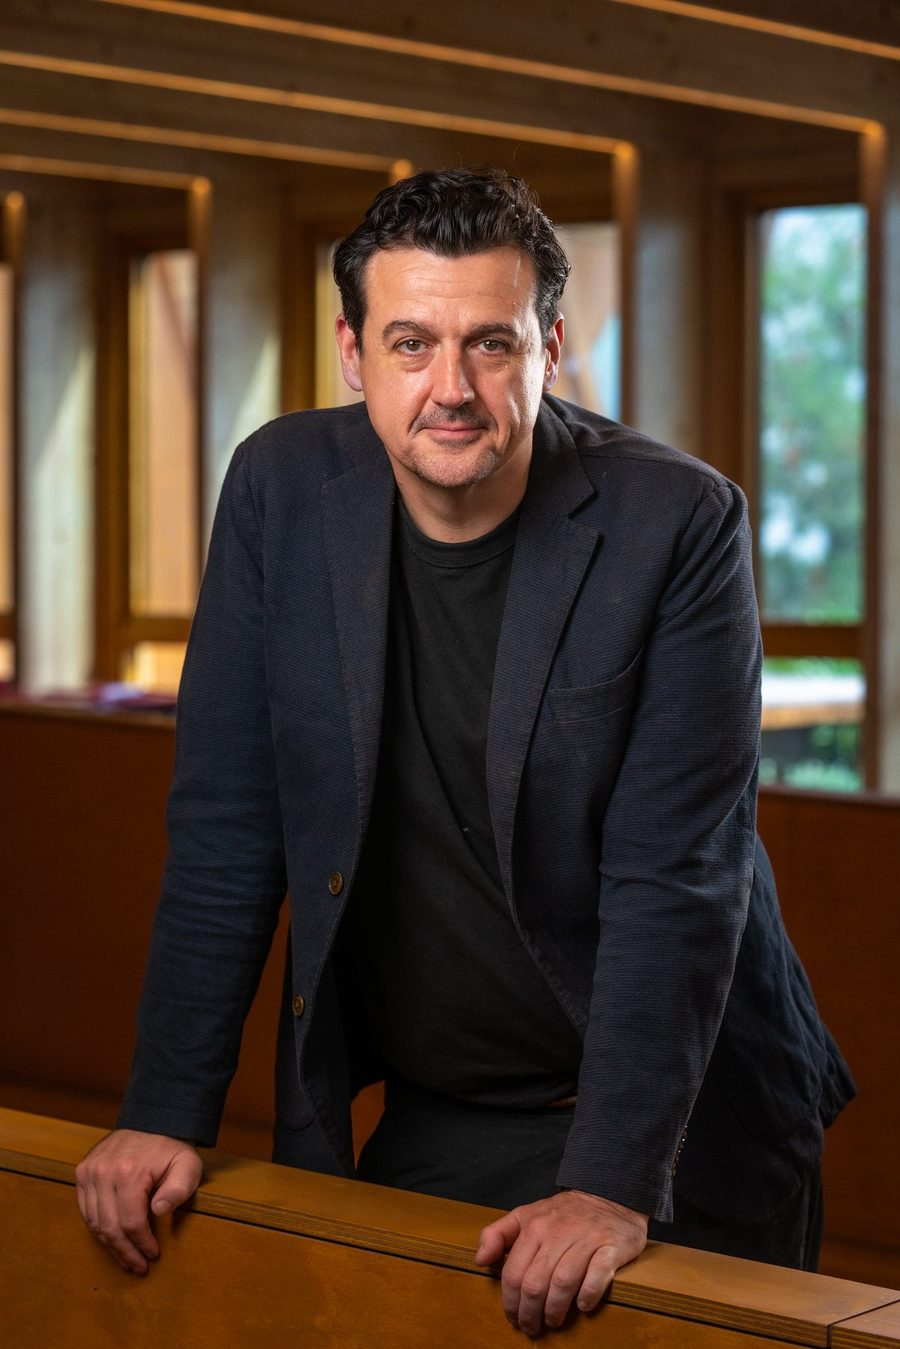
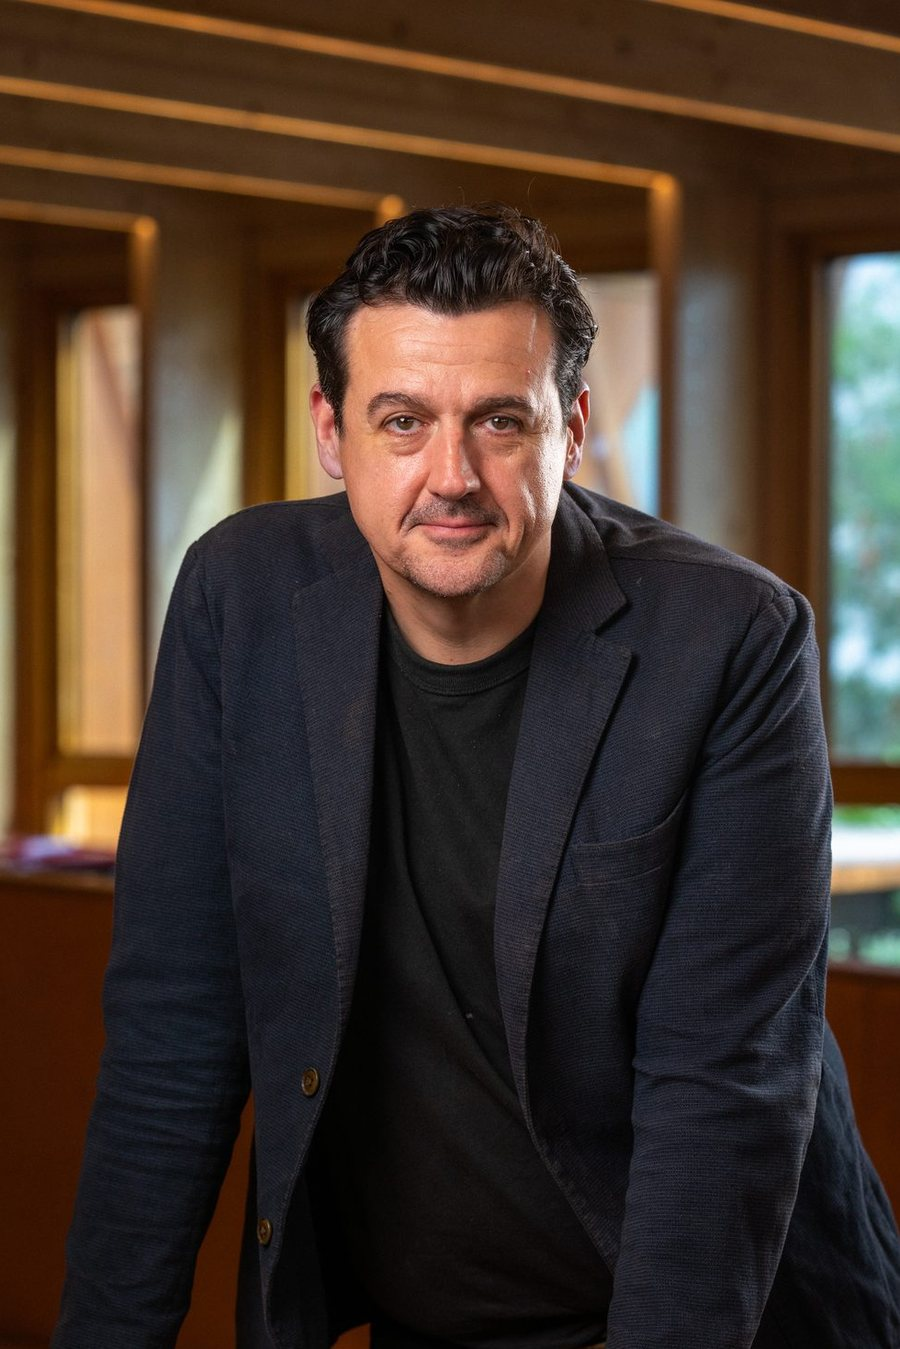
updates

diff --git a/styles.css b/styles.css
@@ -103,12 +103,19 @@ h1, p { margin: 0; }
   background: var(--ivory);
 }
 
-.bar--top { border-bottom: 1px solid var(--ink); }
+/* Three tracks so the socials sit optically centred in the bar regardless of
+   how wide the wordmark and the location line happen to be. */
+.bar--top {
+  display: grid;
+  grid-template-columns: 1fr auto 1fr;
+  border-bottom: 1px solid var(--ink);
+}
+.bar--top .bar__end { justify-self: end; }
+
 .bar--bottom { border-top: 1px solid var(--ink); }
 
-.bar__mid,
+.bar__note,
 .bar__end,
-.socials a,
 .email,
 .panel__kicker,
 .panel__cta-label,
@@ -120,7 +127,7 @@ h1, p { margin: 0; }
   text-transform: uppercase;
 }
 
-.bar__mid { margin-inline: auto; color: var(--ink-soft); }
+.bar__note { color: var(--ink-soft); }
 .bar__end { color: var(--ink-soft); white-space: nowrap; }
 
 .wordmark {
@@ -136,24 +143,38 @@ h1, p { margin: 0; }
   vertical-align: top;
 }
 
-/* Socials — bordered chips, the same device the academic header uses */
+/* Socials — bordered icon chips, the same device the academic header uses */
 
 .socials {
   display: flex;
-  flex-wrap: wrap;
-  gap: 8px;
+  gap: 7px;
+  justify-self: center;
 }
 .socials a {
-  padding: 8px 12px;
+  width: 33px;
+  height: 33px;
+  display: grid;
+  place-items: center;
   border: 1px solid var(--ink);
   color: var(--ink);
-  transition: color 220ms var(--ease), background-color 220ms var(--ease);
+  transition: color 220ms var(--ease), background-color 220ms var(--ease),
+              transform 220ms var(--ease);
 }
 .socials a:hover,
 .socials a:focus-visible {
   color: var(--paper);
   background: var(--ink);
+  transform: translateY(-2px);
 }
+
+.icon { width: 15px; height: 15px; display: block; }
+.icon--fill { fill: currentColor; }
+.icon--stroke {
+  fill: none;
+  stroke: currentColor;
+  stroke-width: 2;
+}
+.icon--stroke .icon__dot { fill: currentColor; stroke: none; }
 
 .email {
   margin-left: auto;
@@ -195,6 +216,7 @@ h1, p { margin: 0; }
 .panel {
   --panel-bg: var(--ivory);
   --panel-accent: var(--red);
+  --scrim: 242, 239, 231;          /* --ivory, as channels for the gradient */
 
   position: relative;
   display: block;
@@ -207,6 +229,7 @@ h1, p { margin: 0; }
 .panel--music {
   --panel-bg: var(--cream);
   --panel-accent: var(--red);
+  --scrim: 255, 247, 236;          /* --cream */
 }
 
 .panel + .panel { border-left: 1px solid var(--ink); }
@@ -220,16 +243,23 @@ h1, p { margin: 0; }
   overflow: hidden;
   z-index: -2;
 }
+/* Both source files are cropped so the eye line sits at 30% of image height.
+   Because cover scales to the panel width, an object-position-Y equal to that
+   same 30% pins the eyes to exactly 30% of the PANEL height whatever the panel
+   measures — so the two faces stay level at rest, mid-swell and stacked. Change
+   one number here and you must re-crop; see README. */
 .panel__media img {
   width: 100%;
   height: 100%;
   object-fit: cover;
-  object-position: 50% 22%;
+  object-position: 50% 30%;
   filter: grayscale(0.78) contrast(1.05) brightness(0.98);
   transform: scale(1.04);
+  /* Pivot the zoom about the eye line too, so hovering one panel doesn't nudge
+     its face out of level with the other. */
+  transform-origin: 50% 30%;
   transition: filter var(--swell) var(--ease), transform 1100ms var(--ease);
 }
-.panel--music .panel__media img { object-position: 50% 30%; }
 
 .panel:hover .panel__media img,
 .panel:focus-visible .panel__media img {
@@ -237,19 +267,23 @@ h1, p { margin: 0; }
   transform: scale(1.09);
 }
 
-/* Scrim — keeps the type legible and blends the photo into the page stock */
+/* Scrim — keeps the type legible and blends the photo into the page stock.
+   It has to be fully clear by ~60% up, because the chin sits around 58% and the
+   old ramp (0.72 at 34%) washed straight over the face. Text lives below 39%. */
 .panel__media::after {
   content: "";
   position: absolute;
   inset: 0;
   z-index: 1;
-  background:
-    linear-gradient(to top, var(--panel-bg) 4%, rgba(242, 239, 231, 0.72) 34%, rgba(242, 239, 231, 0.12) 66%, transparent 100%);
+  background: linear-gradient(
+    to top,
+    rgb(var(--scrim)) 6%,
+    rgba(var(--scrim), 0.88) 24%,
+    rgba(var(--scrim), 0.50) 36%,
+    rgba(var(--scrim), 0.16) 46%,
+    transparent 60%
+  );
   transition: opacity var(--swell) var(--ease);
-}
-.panel--music .panel__media::after {
-  background:
-    linear-gradient(to top, var(--panel-bg) 4%, rgba(255, 247, 236, 0.72) 34%, rgba(255, 247, 236, 0.12) 66%, transparent 100%);
 }
 .panel:hover .panel__media::after,
 .panel:focus-visible .panel__media::after { opacity: 0.82; }
@@ -433,25 +467,32 @@ h1, p { margin: 0; }
   .split:has(.panel--music:hover) .seam,
   .split:has(.panel--music:focus-visible) .seam { left: 0; }
 
-  .panel__media img { object-position: 50% 18%; }
+  /* No object-position override here: the 30% value is what keeps the two
+     faces level, and it holds at every panel size. */
   .panel__body { max-width: none; }
 
-  .bar { flex-wrap: wrap; gap: 12px var(--gutter); }
-  .bar__mid { margin-inline: 0; }
-  .email { margin-left: 0; }
+  .bar--bottom { flex-wrap: wrap; gap: 10px var(--gutter); }
 }
 
 @media (max-width: 560px) {
   :root { --gutter: 20px; }
-  .bar__mid, .bar__end { display: none; }
+  .bar__end { display: none; }
   .panel__edge { display: none; }
+
+  /* Keep all three tracks: .bar__end is display:none here, so the third track
+     stays empty and the socials remain centred on the bar, not on the gap. */
+  .bar--top { padding-inline: 16px; }
+  .bar--bottom { justify-content: center; }
+  .bar__note { display: none; }
+  .email { margin-left: 0; }
 
   /* On a phone the panel is ~326px tall and the blurb ate two thirds of it.
      Kicker + title + button already carry the choice, so the portrait — the
      actual point of the page — gets the space back. */
   .panel__desc { display: none; }
-  .socials { gap: 6px; }
-  .socials a { padding: 7px 9px; letter-spacing: 0.07em; }
+  .socials { gap: 5px; }
+  .socials a { width: 30px; height: 30px; }
+  .icon { width: 14px; height: 14px; }
 }
 
 /* Fallback for engines without :has() — panels simply never swell. */

diff --git a/index.html b/index.html
@@ -42,7 +42,7 @@
         "@id": "https://www.sammoran.com.au/#website",
         "url": "https://www.sammoran.com.au/",
         "name": "Sam Moran",
-        "description": "Landing page directing visitors to Sam Moran's research and performance sites.",
+        "description": "Landing page directing visitors to Sam Moran's research and music sites.",
         "inLanguage": "en-AU"
       },
       {
@@ -50,7 +50,7 @@
         "@id": "https://www.sammoran.com.au/#sam-moran",
         "name": "Sam Moran",
         "url": "https://www.sammoran.com.au/",
-        "jobTitle": "Creative practitioner, researcher and performer",
+        "jobTitle": "Creative AI researcher, performer and songwriter",
         "email": "mailto:hello@childsplay.media",
         "nationality": "Australian",
         "sameAs": [
@@ -76,7 +76,46 @@
       <span class="wordmark__mark" aria-hidden="true">SM<span class="wordmark__reg">®</span></span>
       <span class="sr-only">Sam Moran</span>
     </h1>
-    <p class="bar__mid">Two practices, one person</p>
+
+    <nav class="socials" aria-label="Social profiles">
+      <a href="https://www.instagram.com/officialsammoran/" rel="me noopener noreferrer" target="_blank"
+         title="Instagram" aria-label="Sam Moran on Instagram">
+        <svg class="icon icon--stroke" viewBox="0 0 24 24" aria-hidden="true" focusable="false">
+          <rect x="2.6" y="2.6" width="18.8" height="18.8" rx="5.4"/>
+          <circle cx="12" cy="12" r="4.4"/>
+          <circle cx="17.7" cy="6.3" r="1.35" class="icon__dot"/>
+        </svg>
+      </a>
+
+      <a href="https://x.com/sammoran" rel="me noopener noreferrer" target="_blank"
+         title="X" aria-label="Sam Moran on X">
+        <svg class="icon icon--fill" viewBox="0 0 24 24" aria-hidden="true" focusable="false">
+          <path d="M18.901 1.153h3.68l-8.04 9.19L24 22.846h-7.406l-5.8-7.584-6.638 7.584H.474l8.6-9.83L0 1.154h7.594l5.243 6.932zM17.61 20.644h2.039L6.486 3.24H4.298z"/>
+        </svg>
+      </a>
+
+      <a href="https://www.linkedin.com/in/moransam/" rel="me noopener noreferrer" target="_blank"
+         title="LinkedIn" aria-label="Sam Moran on LinkedIn">
+        <svg class="icon icon--fill" viewBox="0 0 24 24" aria-hidden="true" focusable="false">
+          <path d="M20.447 20.452h-3.554v-5.569c0-1.328-.027-3.037-1.852-3.037-1.853 0-2.136 1.445-2.136 2.939v5.667H9.351V9h3.414v1.561h.046c.477-.9 1.637-1.85 3.37-1.85 3.601 0 4.267 2.37 4.267 5.455v6.286zM5.337 7.433a2.062 2.062 0 1 1 0-4.125 2.062 2.062 0 0 1 0 4.125zm1.782 13.019H3.555V9h3.564v11.452zM22.225 0H1.771C.792 0 0 .774 0 1.729v20.542C0 23.227.792 24 1.771 24h20.451C23.2 24 24 23.227 24 22.271V1.729C24 .774 23.2 0 22.222 0h.003z"/>
+        </svg>
+      </a>
+
+      <a href="https://open.spotify.com/artist/5hOJDPDGtR4hTrIyhO1OJq" rel="me noopener noreferrer" target="_blank"
+         title="Spotify" aria-label="Sam Moran on Spotify">
+        <svg class="icon icon--fill" viewBox="0 0 24 24" aria-hidden="true" focusable="false">
+          <path d="M12 0C5.4 0 0 5.4 0 12s5.4 12 12 12 12-5.4 12-12S18.66 0 12 0zm5.521 17.34c-.24.359-.66.48-1.021.24-2.82-1.74-6.36-2.101-10.561-1.141-.418.122-.779-.179-.899-.539-.12-.421.18-.78.54-.9 4.56-1.021 8.52-.6 11.64 1.32.42.18.479.659.301 1.02zm1.44-3.3c-.301.42-.841.6-1.262.3-3.239-1.98-8.159-2.58-11.939-1.38-.479.12-1.02-.12-1.14-.6-.12-.48.12-1.021.6-1.141C9.6 9.9 15 10.561 18.72 12.84c.361.181.54.78.241 1.2zm.12-3.36C15.24 8.4 8.82 8.16 5.16 9.301c-.6.179-1.2-.181-1.38-.721-.18-.601.18-1.2.72-1.381 4.26-1.26 11.28-1.02 15.721 1.621.539.3.719 1.02.419 1.56-.299.421-1.02.599-1.559.3z"/>
+        </svg>
+      </a>
+
+      <a href="https://music.apple.com/au/artist/sam-moran/275988760" rel="me noopener noreferrer" target="_blank"
+         title="Apple Music" aria-label="Sam Moran on Apple Music">
+        <svg class="icon icon--fill" viewBox="0 0 24 24" aria-hidden="true" focusable="false">
+          <path d="M12.152 6.896c-.948 0-2.415-1.078-3.96-1.04-2.04.027-3.91 1.183-4.961 3.014-2.117 3.675-.546 9.103 1.519 12.09 1.013 1.454 2.208 3.09 3.792 3.039 1.52-.065 2.09-.987 3.935-.987 1.831 0 2.35.987 3.96.948 1.637-.026 2.676-1.48 3.676-2.948 1.156-1.688 1.636-3.325 1.662-3.415-.039-.013-3.182-1.221-3.22-4.857-.026-3.04 2.48-4.494 2.597-4.559-1.429-2.09-3.623-2.324-4.39-2.376-2-.156-3.675 1.09-4.61 1.09zM15.53 3.83c.843-1.012 1.4-2.427 1.245-3.83-1.207.052-2.662.805-3.532 1.818-.78.896-1.454 2.338-1.273 3.714 1.338.104 2.715-.688 3.559-1.701z"/>
+        </svg>
+      </a>
+    </nav>
+
     <p class="bar__end">Sydney <span aria-hidden="true">·</span> Australia</p>
   </header>
 
@@ -114,7 +153,7 @@
 
       <span class="panel__media">
         <img src="/images/sam-red.jpg" width="900" height="1349"
-             alt="Sam Moran laughing in a red varsity cardigan against a red backdrop."
+             alt="Sam Moran in a red varsity cardigan against a red backdrop."
              fetchpriority="high" decoding="async">
       </span>
 
@@ -136,13 +175,7 @@
   </main>
 
   <footer class="bar bar--bottom">
-    <nav class="socials" aria-label="Social profiles">
-      <a href="https://www.instagram.com/officialsammoran/" rel="me noopener noreferrer" target="_blank">Instagram</a>
-      <a href="https://x.com/sammoran" rel="me noopener noreferrer" target="_blank">X</a>
-      <a href="https://www.linkedin.com/in/moransam/" rel="me noopener noreferrer" target="_blank">LinkedIn</a>
-      <a href="https://open.spotify.com/artist/5hOJDPDGtR4hTrIyhO1OJq" rel="me noopener noreferrer" target="_blank">Spotify</a>
-      <a href="https://music.apple.com/au/artist/sam-moran/275988760" rel="me noopener noreferrer" target="_blank">Apple Music</a>
-    </nav>
+    <p class="bar__note">Two practices, one person</p>
     <a class="email" href="mailto:hello@childsplay.media">hello@childsplay.media</a>
   </footer>
 </body>

diff --git a/README.md b/README.md
@@ -23,6 +23,8 @@ swells it to 62%, lifts the colour back into the portrait, floods the button
 red and slides the `or` badge along the seam. The whole interaction is CSS —
 `:has()` on the split, no JavaScript on the page at all.
 
+The social links live as bordered icon chips in the centre of the top bar.
+
 On screens ≤560px the panels stack and the blurb is dropped: the portrait is
 the point, and the kicker + title + button already carry the choice.
 
@@ -50,8 +52,22 @@ python -m http.server 4487
 Azure Static Web Apps, via `.github/workflows/azure-static-web-apps-proud-pond-03f6ac300.yml`.
 Pushing to `main` deploys; `app_location` is `/` with no build.
 
-## Assets
+## Assets — the eye-line rule
 
-The two portraits are copied from `sammoran-academic/images/` (`sam-academic.jpg`
-and `sam-red.jpg`) and downscaled to 900px. If those are ever re-shot, re-copy
-and re-run the downscale, then regenerate `og.jpg`.
+The two portraits are re-cropped from the originals in `sammoran-academic/images/`
+so that **the eye line sits at exactly 30% of image height in both**, at a shared
+900×1349 aspect.
+
+That number is load-bearing. `object-fit: cover` scales the image to the panel
+width, so setting `object-position: 50% 30%` — the *same* fraction — pins the eyes
+to 30% of the panel height at any panel size. The two faces therefore stay level
+at rest, mid-swell, and stacked on mobile, with no per-breakpoint fiddling.
+`transform-origin: 50% 30%` makes the hover zoom pivot about that line too.
+
+The scrim is built around it as well: it must be fully transparent by 60% up,
+because the chin lands near 58%. An earlier ramp hit 0.72 opacity at 34% and
+washed straight over the face.
+
+So if a portrait is ever re-shot: measure its eye line, re-crop to 30%, and
+regenerate `og.jpg` (which uses the same invariant). Changing the CSS value alone
+will pull the faces out of alignment.
